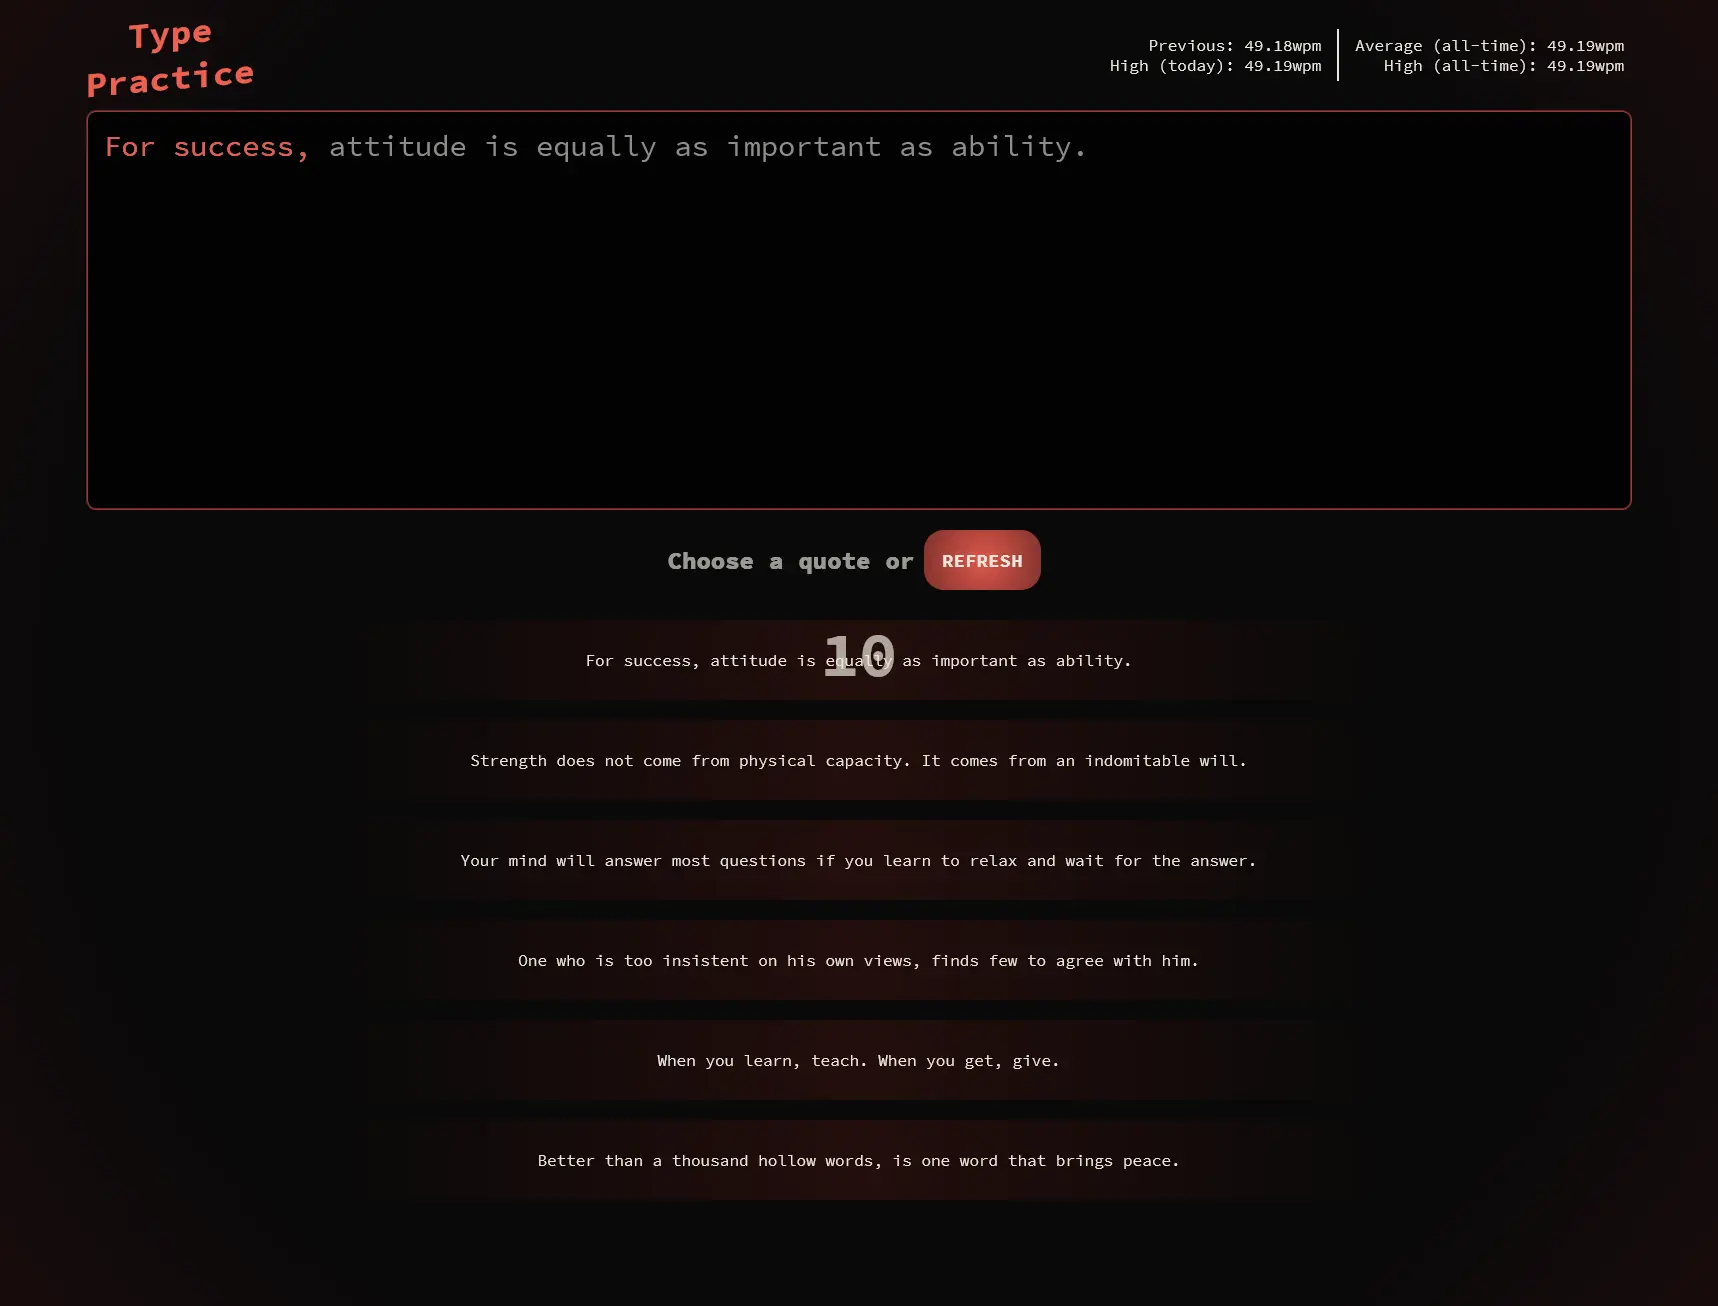
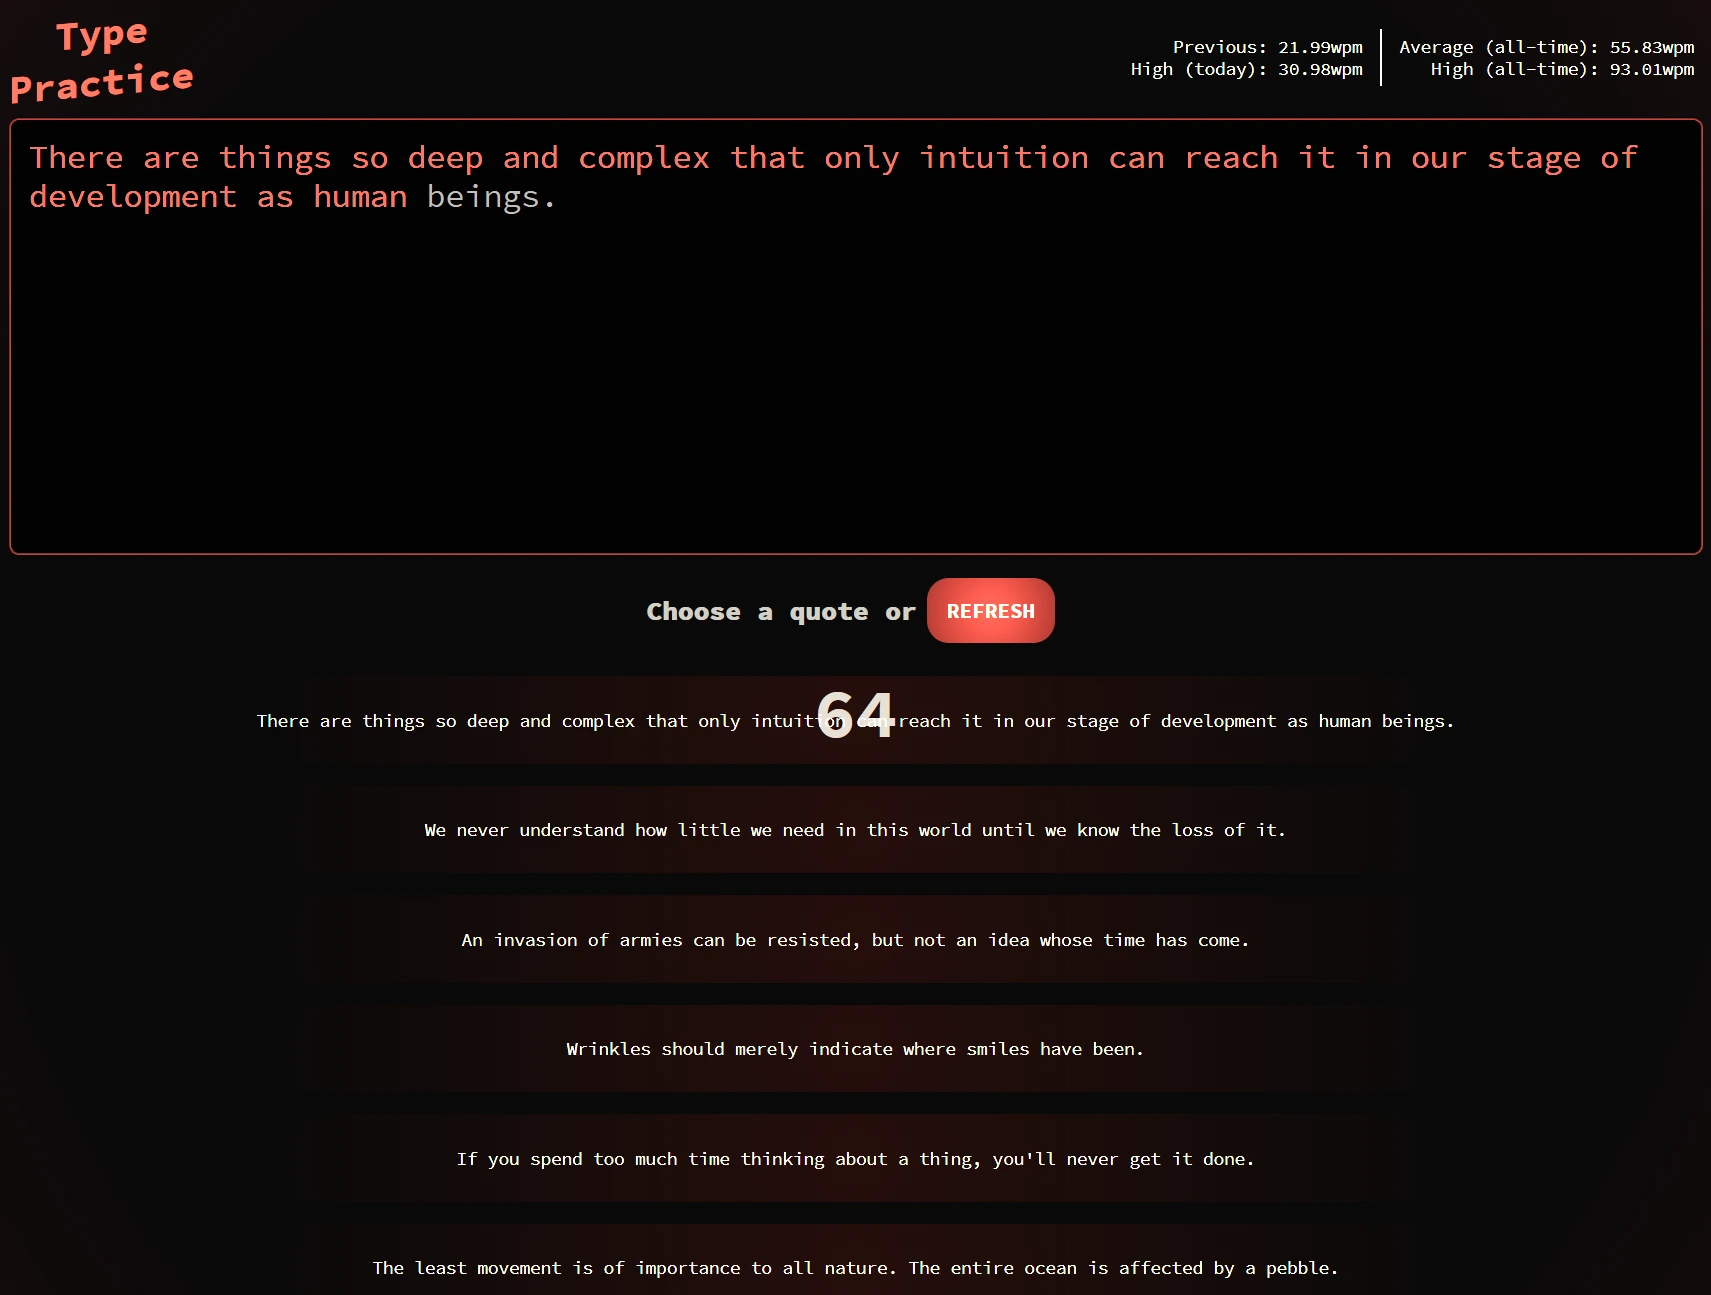
updated thumbnail

diff --git a/README.md b/README.md
@@ -49,3 +49,5 @@ Practice your typing speed while reading words of wisdom.
 <img src="https://dj8eg5xs13hf6.cloudfront.net/type-practice/9.png" width="250">
 
 <img src="https://dj8eg5xs13hf6.cloudfront.net/type-practice/10.png" width="250">
+
+<img src="https://dj8eg5xs13hf6.cloudfront.net/type-practice/11.png" width="250">
